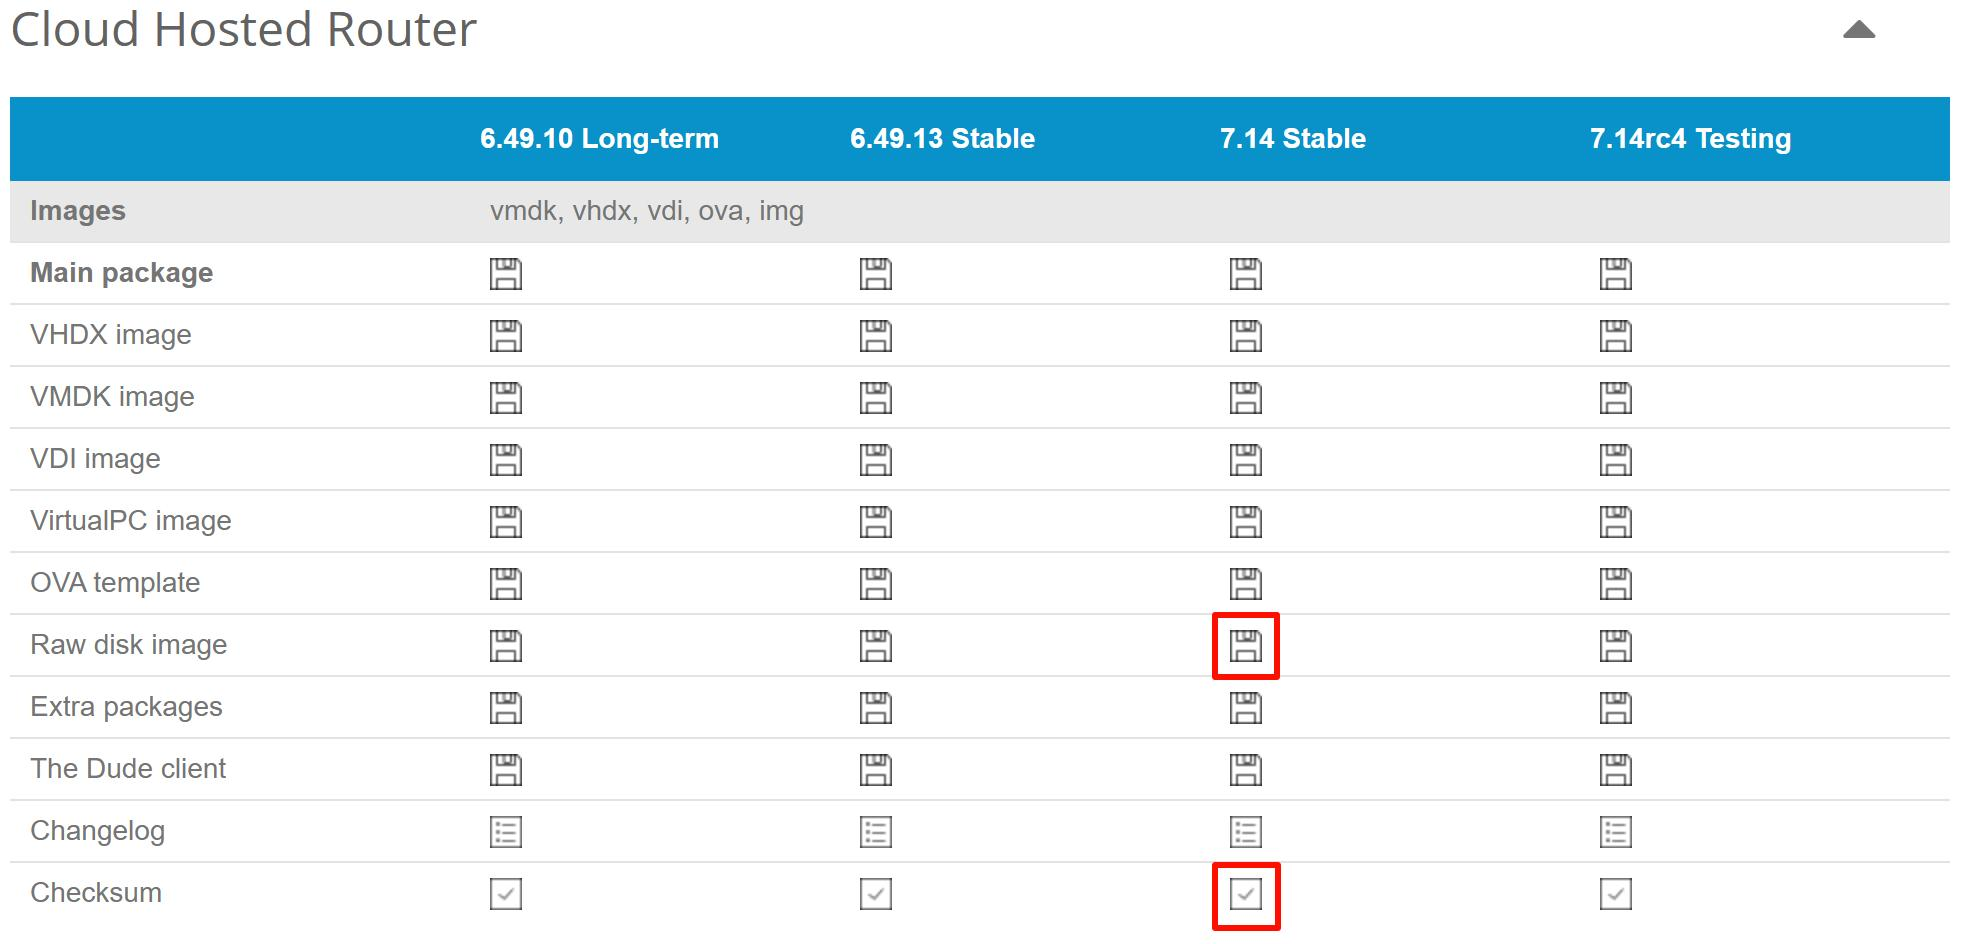
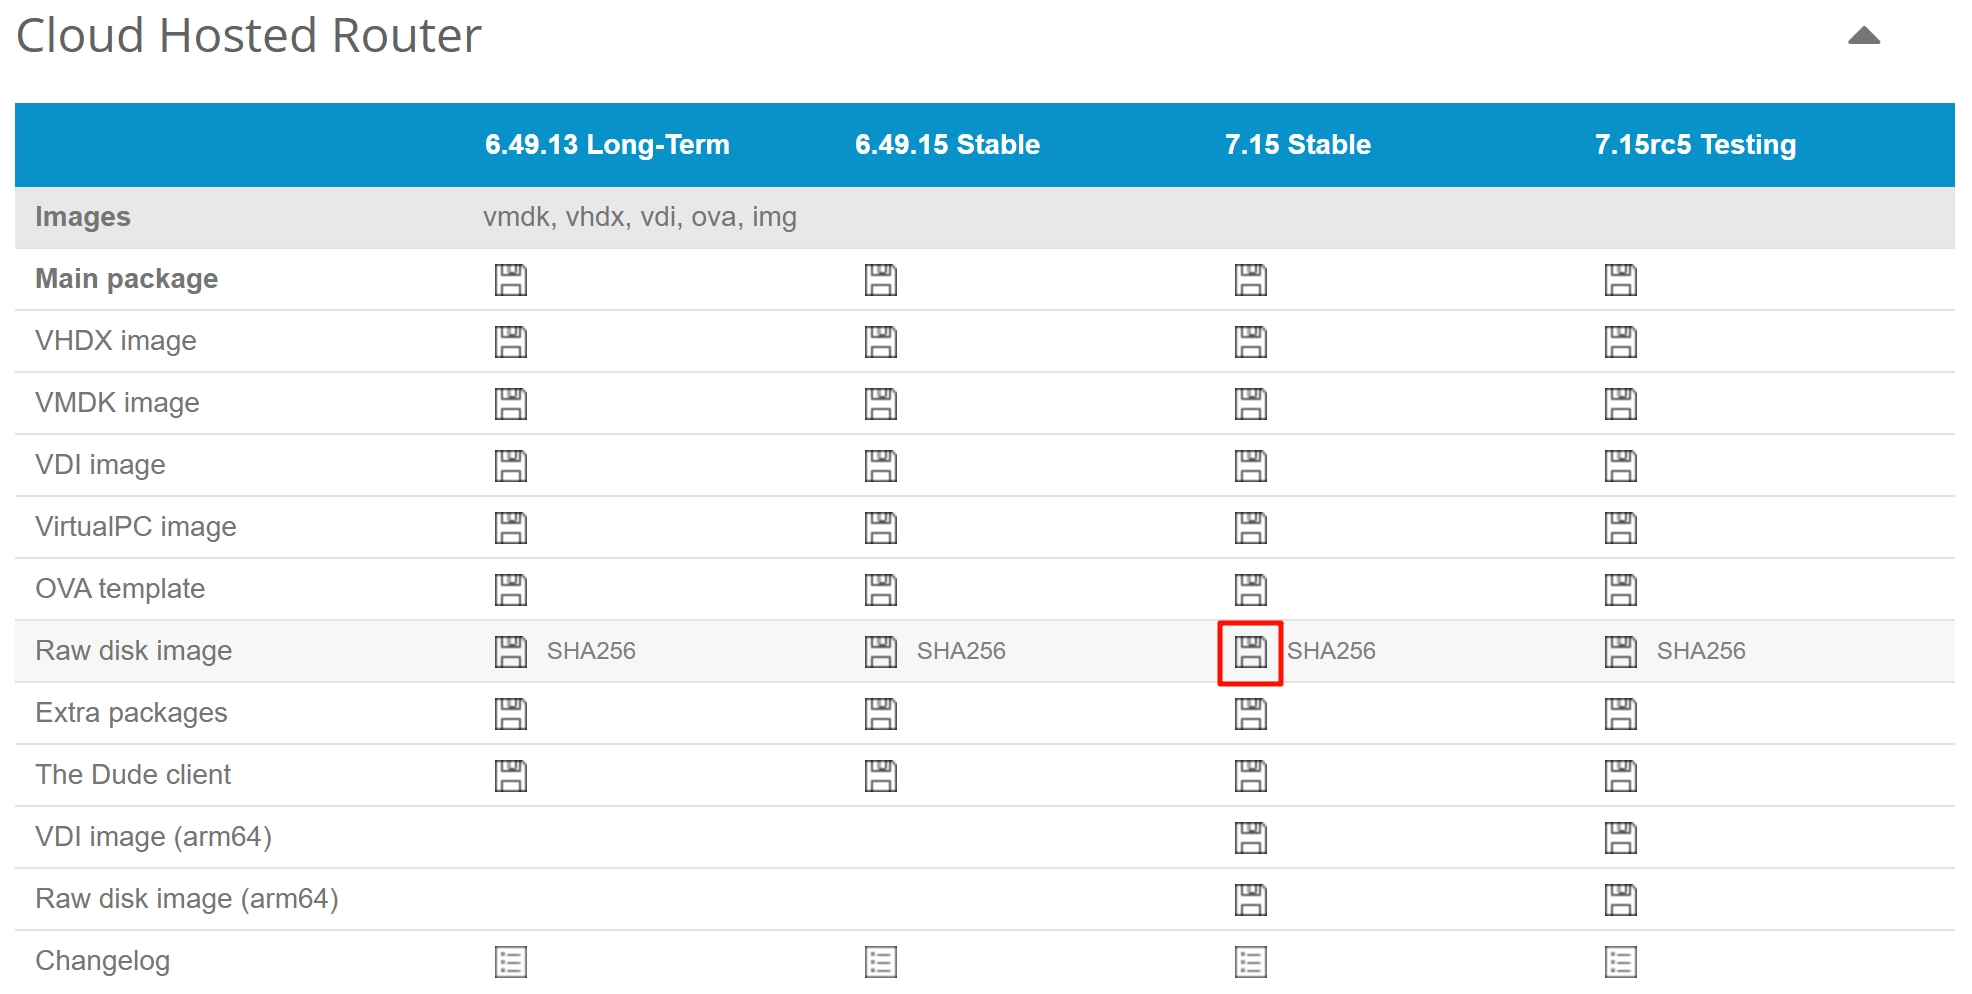
同步更新

diff --git a/00.PVE下安装系统.md b/00.PVE下安装系统.md
@@ -139,10 +139,10 @@ $ cd /tmp/RouterOS
 $ ls -lah
 
 ## 计算文件 hash
-$ sha256sum chr-7.14.img.zip
+$ sha256sum chr-7.15.img.zip
 
 #### 文件 hash 示例输出
-5b4fcb37ad17ee60a9f0a0c9dd773a6df729defedd454536193fb5c926318f67  chr-7.14.img.zip
+84d5815d6828b242e75dd19bf2fc7b21c3a5e4937d47513d178642d33f2eb47b  chr-7.15.img.zip
 ```
 
 将得到的 `hash` 值与官网提供的校验信息进行对比，确认无误后，再进行后续步骤。  
@@ -153,7 +153,7 @@ $ sha256sum chr-7.14.img.zip
 
 ```bash
 ## 将镜像文件解压缩
-$ unzip -q chr-7.14.img.zip
+$ unzip -q chr-7.15.img.zip
 ```
 
 ### 3.2.导入镜像文件
@@ -164,7 +164,7 @@ $ unzip -q chr-7.14.img.zip
 
 ```bash
 ## 将 img 镜像导入虚拟机中
-$ qm importdisk 101 chr-7.14.img local-lvm
+$ qm importdisk 101 chr-7.15.img local-lvm
 
 #### img 镜像导入示例输出
 Successfully imported disk as 'unused0:local-lvm:vm-101-disk-0'

diff --git a/README.md b/README.md
@@ -4,7 +4,7 @@
 
 RouterOS 路由器的安装以及折腾手记。
 
-- RouterOS 适用版本：7.14 Stable
+- RouterOS 适用版本：7.15 Stable
 
 
 - 演示机：
